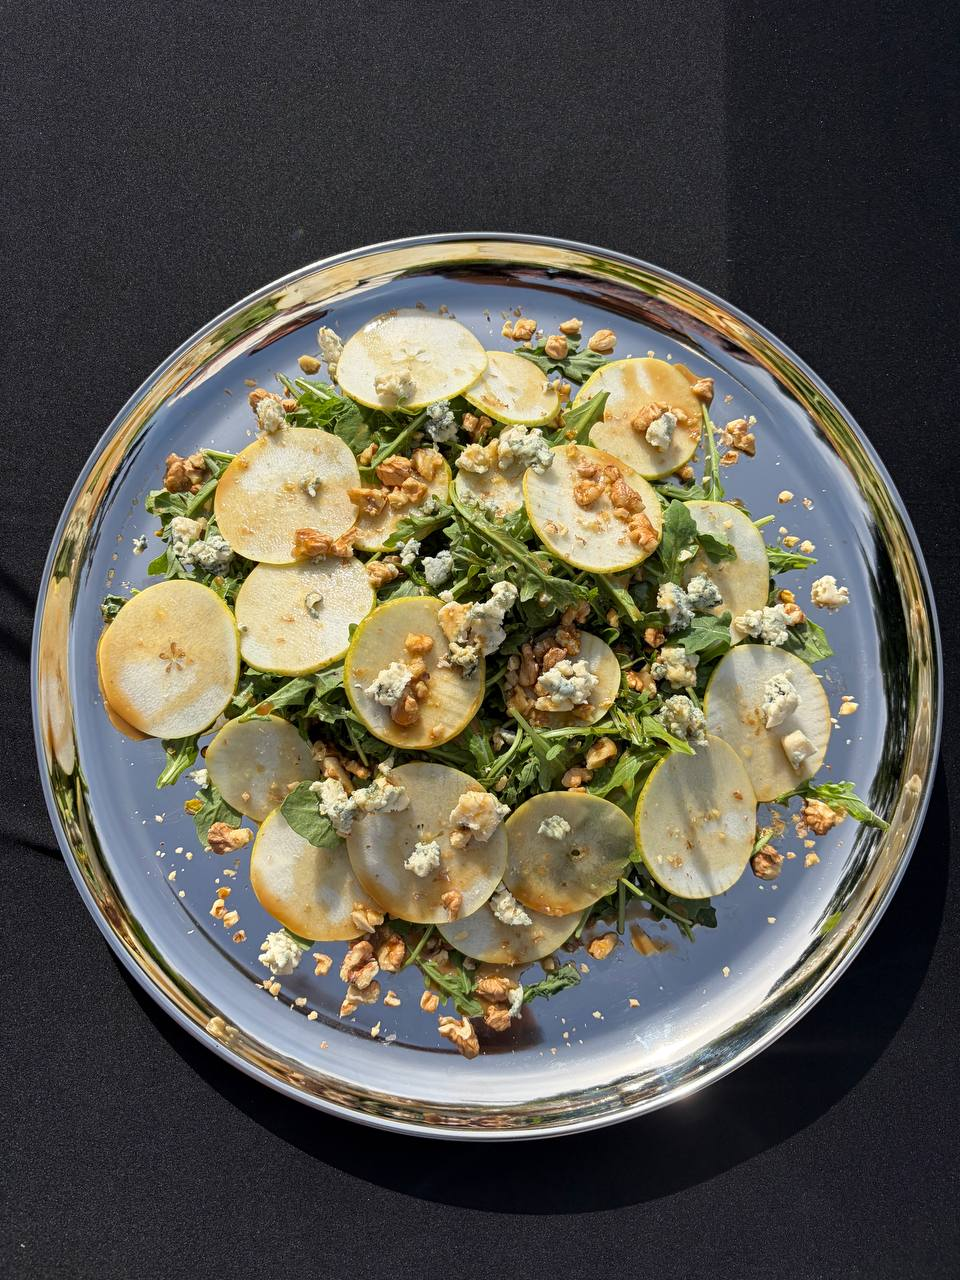
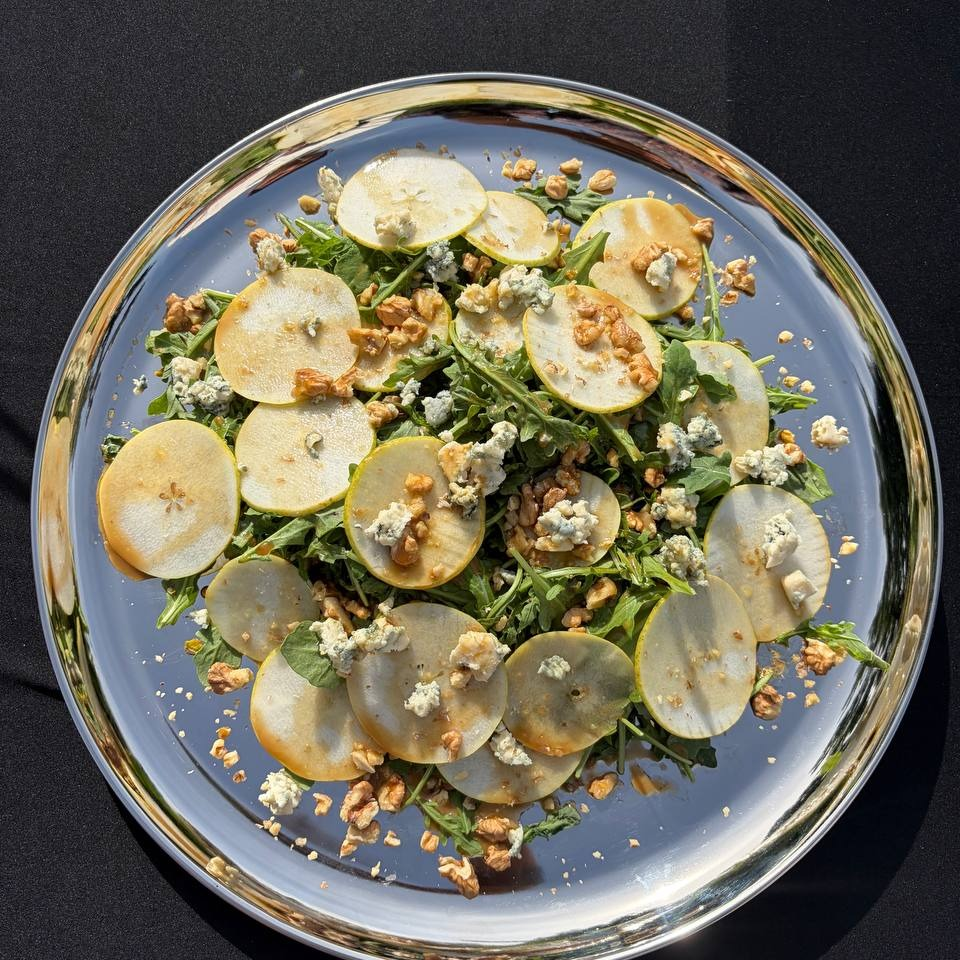
Center-crop salad images and match background to pizza menu

diff --git a/index.html b/index.html
@@ -428,7 +428,7 @@ nav ul a:hover { color: var(--tomato); }
 
 
 /* ============ SALAD MENU ============ */
-.salad-menu { background: var(--bone-2); }
+.salad-menu { background: var(--bone); }
 .salad-grid {
   display: grid;
   grid-template-columns: repeat(2, 1fr);
